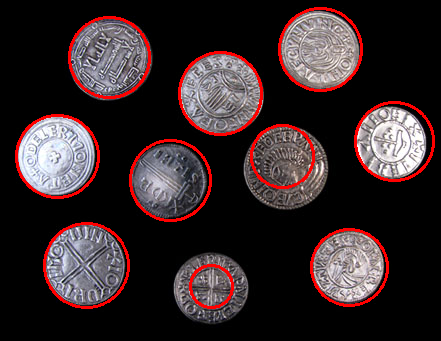
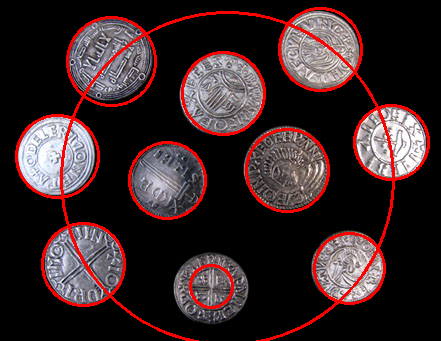
added second half of hough transform

diff --git a/Ass4/task2.cpp b/Ass4/task2.cpp
@@ -49,6 +49,7 @@ int main( int argc, char** argv ) {
     Accumulator[i] = new int*[441];
     for(int j = 0; j < 441; j++)
     {
+      //FIXME: Max Raius half as much
       Accumulator[i][j] = new int[180];
     }
   }
@@ -72,10 +73,17 @@ int main( int argc, char** argv ) {
         int x0 = x + b;
         int y0 = y + a;
         
+        int x1 = x - b;
+        int y1 = y - a;
+        
         /// vote
         if(x0 > 0 && x0 < th_image.cols && y0 > 0 && y0 < th_image.rows) {
           Accumulator[y0][x0][radius - r_min] += 1;
           // cout << "Added y " << y0 << " and x " << x0 << " with radius " << radius << endl;
+        }
+        if(x1 > 0 && x1 < th_image.cols && y1 > 0 && y1 < th_image.rows) {
+          Accumulator[y1][x1][radius - r_min] += 1;
+          // cout << "Added y " << y1 << " and x " << x1 << " with radius " << radius << endl;
         }
       }
     }
@@ -132,7 +140,7 @@ int main( int argc, char** argv ) {
       }
     }
     
-    if(max_radii_sum < 50)
+    if(max_radii_sum < 75)
       break;
     
     
